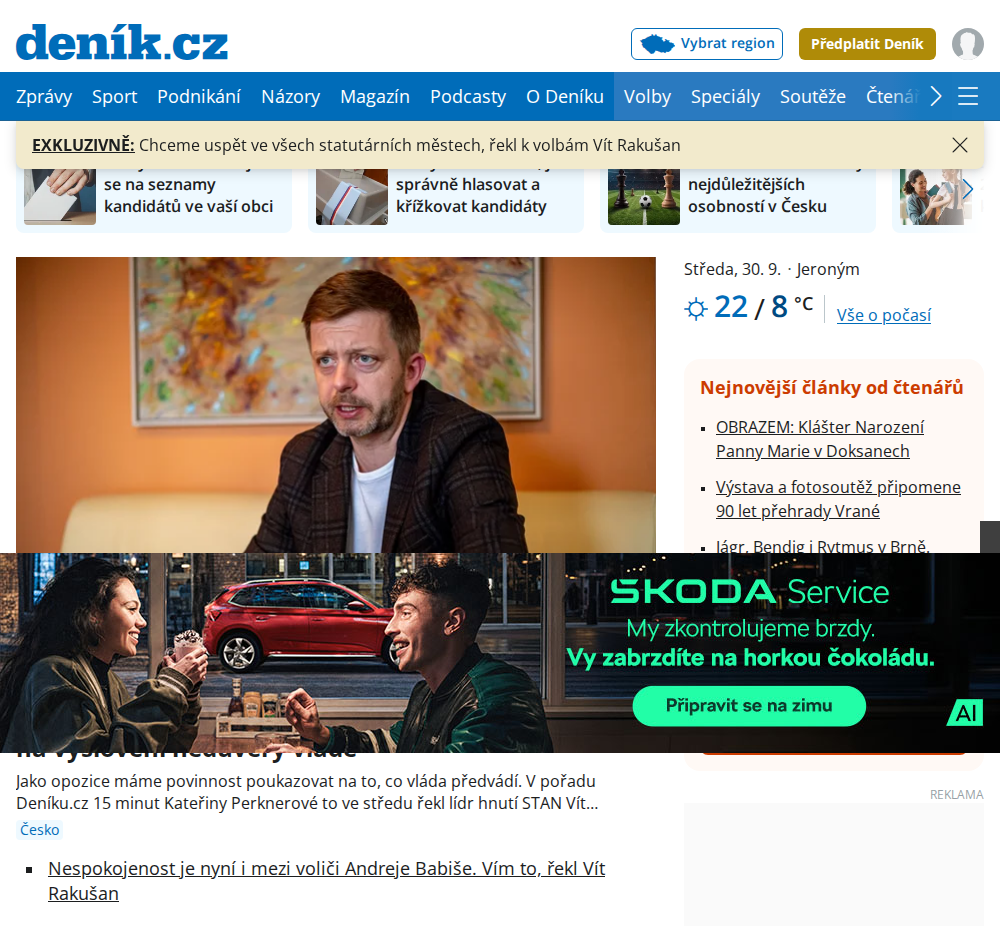
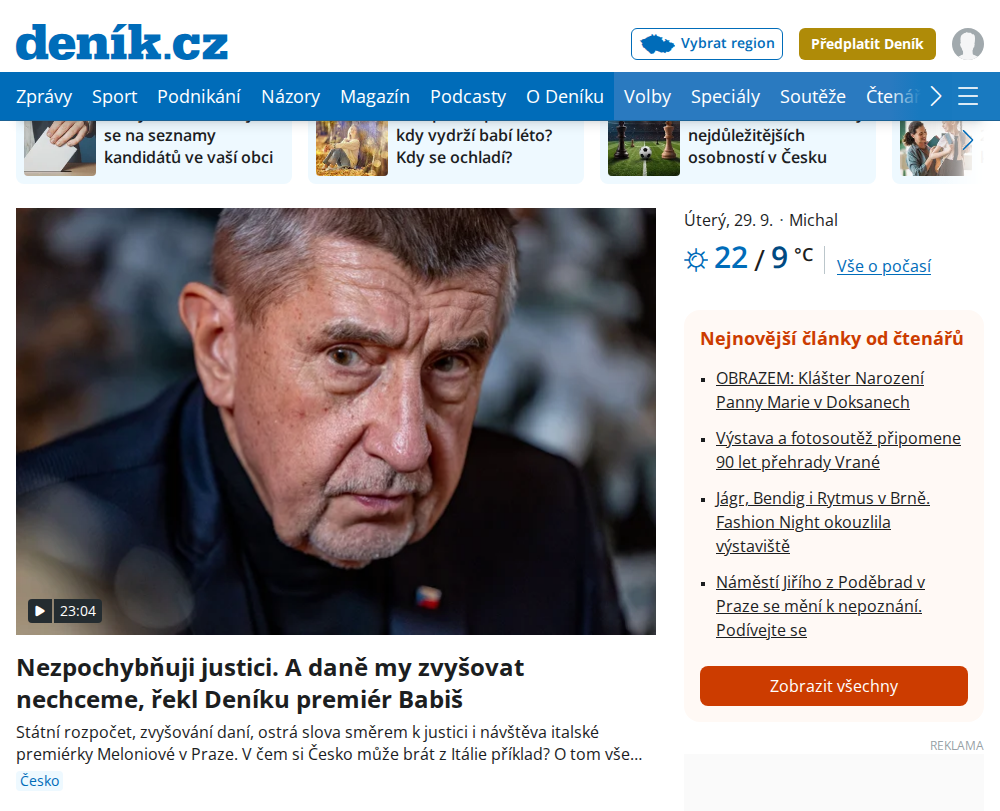
Screenshot robota: spolehlivě schovat reklamy a žlutý pruh
Žlutý pruh pod hlavičkou se měnil text (NEPŘEHLÉDNĚTE/EXKLUZIVNĚ/...),
takže se dřív hledal podle konkrétních slov a občas se nenašel -- teď se
maže podle jeho stálé CSS třídy. Reklamy v pravém sloupci se dosazují
dynamicky, takže se místo jednotlivých ID schovává celý sloupec najednou.
Hlavní oprava: ukotvená (position:fixed) reklama u spodního okraje se při
"fullPage" snímku s oříznutím vykreslovala "přimrazená" doprostřed stránky
-- robot teď místo toho okno předem zvětší na potřebnou výšku, takže se
ukotvené prvky vykreslí tam, kam patří (mimo oříznutou oblast).

Dnešní obrázek na webu byl poškozený stejnou chybou (reklama překryla
kus titulku, nešlo to opravit editací), nahrazen posledním čistým
snímkem bez reklamy. Zítřejší běh už použije opravenou verzi.

diff --git a/.github/scripts/screenshot-denik.js b/.github/scripts/screenshot-denik.js
@@ -2,9 +2,25 @@
 // Spouští ho .github/workflows/daily-hero-screenshot.yml jednou denně.
 //
 // Bere jen sloupec obsahu (1000px na středu) od horní hrany hlavičky po spodek
-// úvodního hlavního článku -- bez reklam, bez popisků REKLAMA, bez žlutého
-// pruhu NEPŘEHLÉDNĚTE a bez plovoucího tlačítka nahoru. Hlavní článek je na
-// denik.cz vždy první <article> element (ověřeno 14. 9. 2026).
+// úvodního hlavního článku -- bez reklam, bez žlutého zavíratelného pruhu
+// a bez plovoucího tlačítka nahoru. Hlavní článek je na denik.cz vždy první
+// <article> element (ověřeno 14. 9. 2026).
+//
+// Reklamy v pravém postranním sloupci (vedle článku) se nedají spolehlivě
+// schovat podle ID/textu -- Deník je dosazuje dynamicky a formát i umístění
+// se mění. Proto se celý postranní sloupec (počasí, čtenářské články,
+// reklama) schovává jako celek podle třídy "container__secondary". Sloupec
+// s hlavním článkem zůstává na svém místě, jen se po pravé straně místo
+// reklamy ukáže prázdné místo.
+//
+// 1. 10. 2026: tohle samo nestačilo -- objevila se ukotvená (position:fixed)
+// reklama u spodního okraje obrazovky. Ve spojení s "fullPage" snímkem a
+// clipem (viz dřívější komentář u screenshotu) ji Playwright vykreslí
+// "přimrazenou" doprostřed stránky, i když na živé stránce je dole mimo
+// vše podstatné. Řešení: místo "fullPage" + clip se okno prohlížeče předem
+// zvětší na potřebnou výšku a snímek se bere bez "fullPage" -- ukotvené
+// prvky se pak vykreslí tam, kam skutečně patří (dole, mimo oříznutou
+// oblast), ne doprostřed.
 
 const { chromium } = require("playwright");
 
@@ -49,16 +65,13 @@ const HIDE_AD_SLOTS_CSS = `
     document.querySelectorAll("body *").forEach((e) => {
       if (e.children.length === 0 && /^\s*reklama\s*$/i.test(e.textContent)) hide(e);
     });
-    document.querySelectorAll("body *").forEach((e) => {
-      if (e.children.length === 0 && /NEPŘEHLÉDNĚTE/i.test(e.textContent)) {
-        let a = e;
-        while (a.parentElement && a.parentElement !== document.body && getComputedStyle(a).position === "static") {
-          a = a.parentElement;
-        }
-        hide(a);
-      }
-    });
+    // Žlutý zavíratelný pruh pod hlavičkou (text se mění -- "NEPŘEHLÉDNĚTE",
+    // "EXKLUZIVNĚ", "Prezident na Deník.cz" atd.), ale má stálou třídu.
+    document.querySelectorAll(".js-breaking-news").forEach(hide);
     document.querySelectorAll(".js-button-up").forEach(hide);
+    // Celý pravý postranní sloupec (počasí, čtenářské články, reklama) --
+    // viz komentář nahoře u HIDE_AD_SLOTS_CSS.
+    document.querySelectorAll(".container__secondary").forEach(hide);
     window.scrollTo(0, 0);
   });
   await page.waitForTimeout(500);
@@ -82,9 +95,11 @@ const HIDE_AD_SLOTS_CSS = `
 
   const clip = { x: (VIEWPORT.width - CONTENT_WIDTH) / 2, y: top, width: CONTENT_WIDTH, height: bottom - top };
 
-  // fullPage: true je tu nutné i s clipem -- bez něj Playwright neumí
-  // zachytit nic za hranicí aktuálního viewportu a clip se potichu ořízne.
-  await page.screenshot({ path: OUT, fullPage: true, clip });
+  // Okno se zvětší na výšku potřebnou pro clip (+ rezerva), aby nebylo
+  // potřeba "fullPage" -- viz komentář nahoře, proč se mu radši vyhýbáme.
+  await page.setViewportSize({ width: VIEWPORT.width, height: Math.ceil(bottom) + 100 });
+  await page.waitForTimeout(300);
+  await page.screenshot({ path: OUT, clip });
   await browser.close();
   console.log("Screenshot uložen do " + OUT + " (" + clip.width + "x" + clip.height + "px)");
 })();
